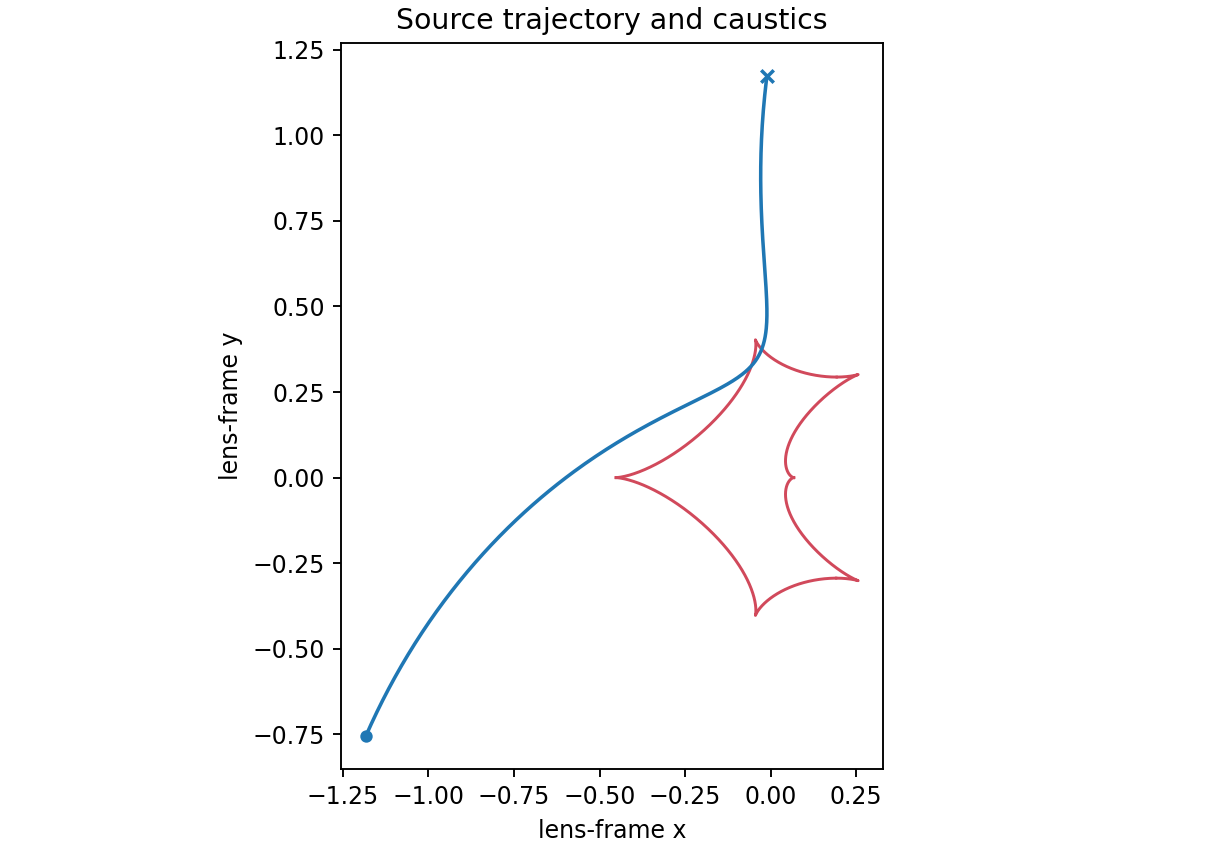
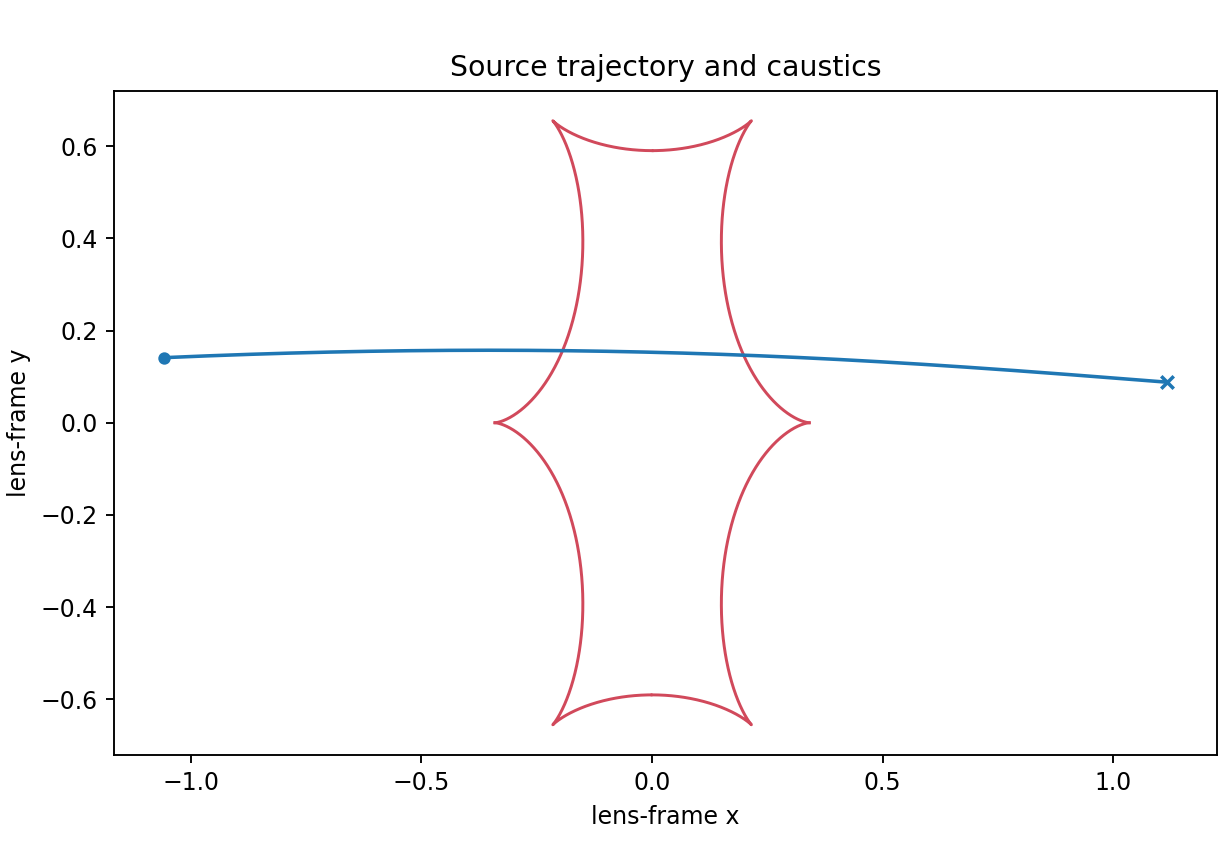
Align binary source tutorial with VBM

diff --git a/example/tutorials/binary_source.py b/example/tutorials/binary_source.py
@@ -6,16 +6,19 @@ import lcbinint
 from common import render_tutorial
 
 
-times = np.linspace(-15.0, 15.0, 301)
+times = np.linspace(7550.4 - 37.3, 7550.4 + 37.3, 300)
 params = dict(
-    t0=0.0, tE=20.0, u0=0.3, alpha=0.5, s=1.0, q=0.1, rho=0.003,
-    xi_1=0.25, xi_2=-0.1, period_xa=35.0, inc_xa=1.1,
-    q_source=0.5, q_mass=2.0,
+    # VBM BinSourceExtLightCurveXallarap example, expressed with lcbinint
+    # names. q_source is VBM's flux ratio FR.
+    t0=7550.4, tE=37.3, u0=0.1, alpha=0.0, s=1.0, q=1.0, rho=0.004,
+    t0_2=7555.8, u0_2=0.05, q_source=0.4,
+    piEN=0.03, piEE=-0.02, xi_1=0.1, xi_2=0.05,
+    w1=0.021, w2=-0.02, w3=0.03,
 )
 options = lcbinint.Options(coordinates="vbm", nbin="auto", caustic_bins=600)
-single_model = lcbinint.Model(lens="binary", source="single", xallarap="circular_elements")
+single_model = lcbinint.Model(lens="binary", source="single", xallarap="circular_velocity")
 single = lcbinint.LightCurve(options=options, model=single_model)
-binary_model = lcbinint.Model(lens="binary", source="binary", xallarap="circular_elements")
+binary_model = lcbinint.Model(lens="binary", source="binary", xallarap="circular_velocity")
 binary = lcbinint.LightCurve(options=options, model=binary_model)
 render_tutorial(
     "05-binary-source", "binary source", binary, times, params,

diff --git a/docs/tutorials/05-binary-source.md b/docs/tutorials/05-binary-source.md
@@ -1,14 +1,47 @@
 # 5. Binary source: combine two source trajectories
 
-A binary source is selected on `Model` and combines two magnifications using a
-source-flux ratio. This tutorial uses the coupled-xallarap representation, in
-which `q_mass` determines the internally derived secondary xallarap amplitude.
+A binary source is the flux-weighted superposition of two source trajectories.
+This reproduces the VBM `BinSourceExtLightCurveXallarap` example: `tE=37.3`,
+`FR=0.4`, `u01=0.1`, `u02=0.05`, `t01=7550.4`, `t02=7555.8`, `rho=0.004`,
+parallax `(0.03, -0.02)`, and source-orbit velocity `(w1, w2, w3)`.
+In lcbinint, VBM's `FR` is named `q_source`.
 
 ```python
-binary = lcbinint.LightCurve(
-    source="binary", xallarap="circular_elements"
+import numpy as np
+import matplotlib.pyplot as plt
+import lcbinint
+
+times = np.linspace(7550.4 - 37.3, 7550.4 + 37.3, 300)
+params = dict(
+    t0=7550.4, tE=37.3, u0=0.1, alpha=0.0, s=1.0, q=1.0, rho=0.004,
+    t0_2=7555.8, u0_2=0.05, q_source=0.4,
+    piEN=0.03, piEE=-0.02, xi_1=0.1, xi_2=0.05,
+    w1=0.021, w2=-0.02, w3=0.03,
 )
-params.update(q_source=0.5, q_mass=2.0)
+options = lcbinint.Options(coordinates="vbm", nbin="auto", caustic_bins=600)
+model = lcbinint.Model(lens="binary", source="binary", xallarap="circular_velocity")
+curve = lcbinint.LightCurve(options=options, model=model)
+
+magnification = curve(times, params)
+trajectory = curve.source_trajectory(times, {k: v for k, v in params.items()
+                                               if k not in {"q_source", "t0_2", "u0_2"}})
+caustics = curve.caustics({k: v for k, v in params.items()
+                            if k not in {"q_source", "t0_2", "u0_2"}})
+
+fig, ax = plt.subplots(figsize=(7, 4))
+ax.plot(times, magnification, color="C0")
+ax.set(xlabel="time", ylabel="magnification", title="Binary source with xallarap")
+fig.tight_layout()
+fig.savefig("binary-source-light-curve.png", dpi=170)
+
+fig, ax = plt.subplots(figsize=(7, 5))
+for x, y in zip(caustics.x, caustics.y):
+    ax.plot(x, y, color="C3", lw=1.2)
+ax.plot(trajectory.x, trajectory.y, color="C0", lw=1.5)
+ax.set(xlabel="lens-frame x", ylabel="lens-frame y", title="Primary trajectory and caustics")
+ax.set_aspect("equal", adjustable="box")
+fig.tight_layout()
+fig.savefig("binary-source-geometry.png", dpi=170)
 ```
 
 ![Binary-source light curve](../assets/tutorials/05-binary-source-light-curve.png)
@@ -19,9 +52,9 @@ params.update(q_source=0.5, q_mass=2.0)
 PYTHONPATH=build python example/tutorials/binary_source.py
 ```
 
-The geometry panel shows the primary trajectory used for orientation. For a
-non-coupled binary source, supply `q_source`, `t0_2`, and `u0_2` instead of a
-positive `q_mass`.
+The code block is self-contained. The geometry panel intentionally shows the
+primary trajectory; `LightCurve.source_trajectory()` returns one trajectory,
+whereas the magnification above is the two-source flux-weighted result.
 
 ---
 
